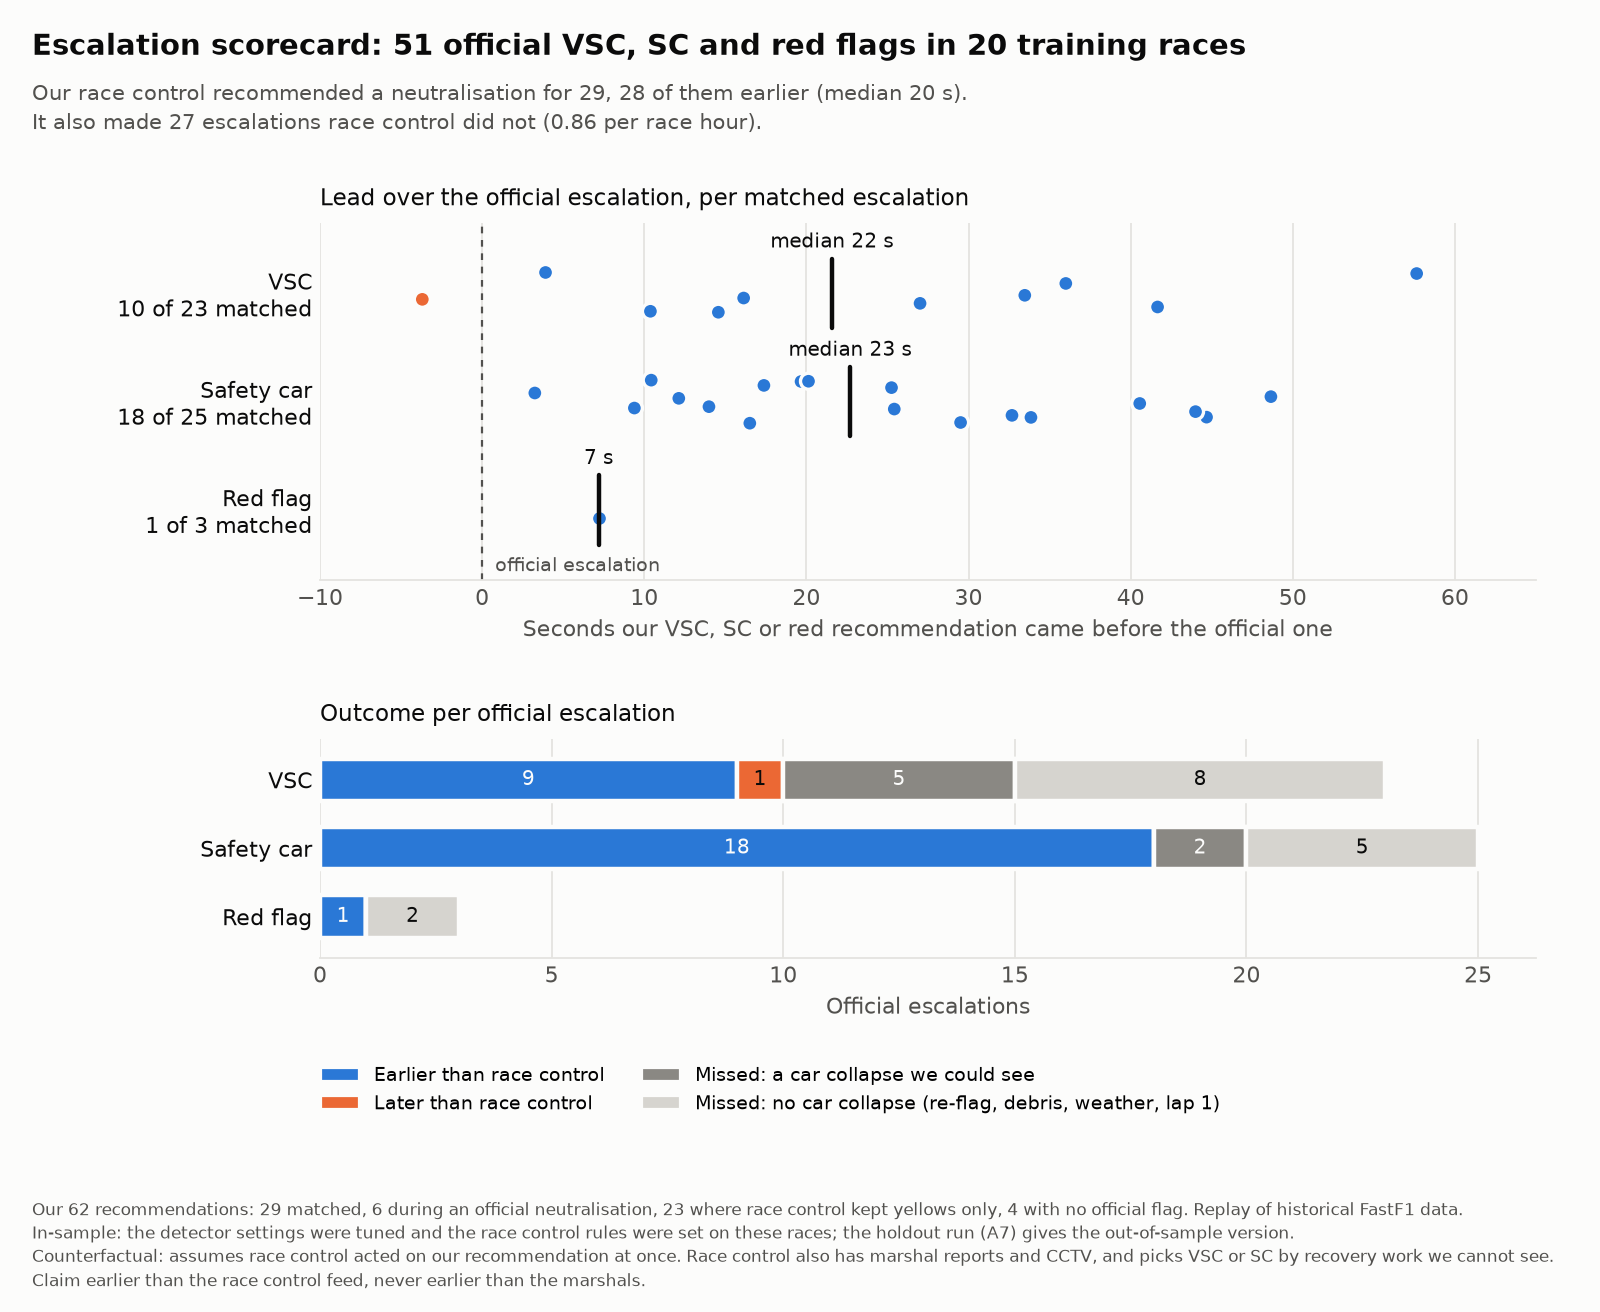
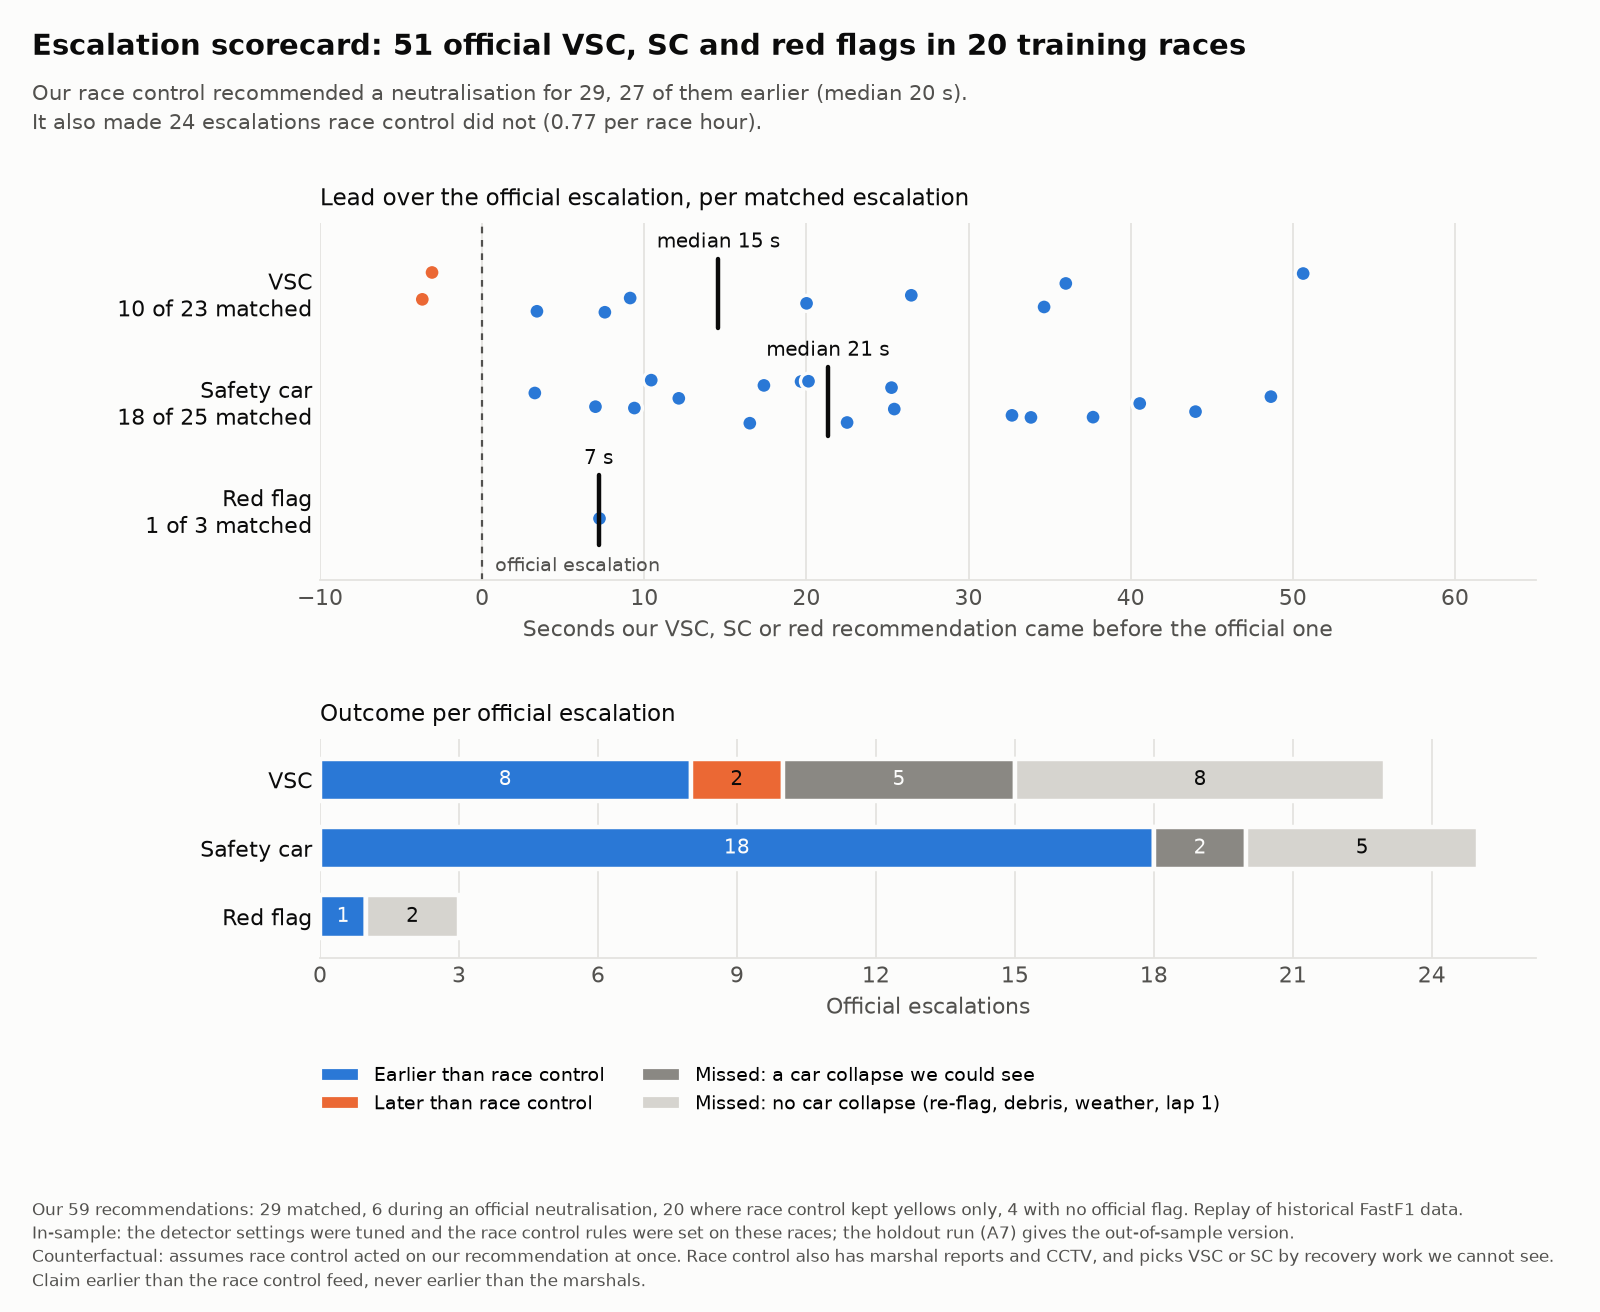
A: escalation scorecard rerun with the impact rule engine (f5a6b36)
Same first flag as race control 22 of 29 (was 17), official VSCs answered
with a VSC 8 (was 0), extra escalations 24, 0.77 per race hour (was 27,
0.86). Earlier/later 27/2 (was 28/1), median lead 20.0 s. Case study
unchanged (both Baku crashes had an IMPACT).

diff --git a/docs/charts/escalation.md b/docs/charts/escalation.md
@@ -8,14 +8,14 @@ Counterfactual: assumes race control acted on our recommendation at once. Race c
 
 ## Official escalations: 51
 
-- We recommended a VSC, SC or red for 29 of 51 (57%): 28 earlier than race control, 1 later. Median lead 20.1 s (middle half 12.1 to 33.9 s).
+- We recommended a VSC, SC or red for 29 of 51 (57%): 27 earlier than race control, 2 later. Median lead 20.0 s (middle half 9.1 to 33.9 s).
 - Already out (our flag was up before, no new recommendation): 0. Missed: 22, of which 7 had a car collapse our onset rule found and 15 had none.
-- Same first flag as race control: 17 of 29 (official Red flag and ours Red flag: 1; official Safety car and ours Red flag: 2; official Safety car and ours Safety car: 16; official VSC and ours Safety car: 10).
+- Same first flag as race control: 22 of 29 (official Red flag and ours Red flag: 1; official Safety car and ours Red flag: 2; official Safety car and ours Safety car: 13; official Safety car and ours VSC: 3; official VSC and ours Safety car: 2; official VSC and ours VSC: 8).
 
 | official flag | escalations | earlier | later | missed | median lead (s) |
 |---|---|---|---|---|---|
-| VSC | 23 | 9 | 1 | 13 | 21.6 |
-| Safety car | 25 | 18 | 0 | 7 | 22.7 |
+| VSC | 23 | 8 | 2 | 13 | 14.6 |
+| Safety car | 25 | 18 | 0 | 7 | 21.3 |
 | Red flag | 3 | 1 | 0 | 2 | 7.2 |
 
 Missed official escalations:
@@ -45,17 +45,18 @@ Missed official escalations:
 | 2026_Dutch | 10659.2 | VSC | track-wide | car collapse seen | car 23 collapsed 99 s before the first official message; we made no recommendation |
 | 2026_Italian | 3613.8 | SC | 14 15 16 | no car collapse | no car collapsed below 50% (debris, weather, or a car that went off and kept going) |
 
-## Our escalations: 62
+## Our escalations: 59
 
 - Matched an official escalation: 29. During an official neutralisation (not extra): 6.
-- Extra, race control never escalated: 27, 0.86 per race hour (23 where race control kept yellows only, 0 near an escalated incident but outside its match window, 4 with no official flag). By flag: VSC 0, Safety car 23, Red flag 4.
+- Extra, race control never escalated: 24, 0.77 per race hour (20 where race control kept yellows only, 0 near an escalated incident but outside its match window, 4 with no official flag). By flag: VSC 6, Safety car 14, Red flag 4.
 - Race control engine resets (tick jumps over 2 s): 0.
 
-## Finding: our engine never recommends a VSC
+## Flag choice: VSC or SC
 
-The engine sends a VSC for a car stopped more than 8 m from the racing line and an SC otherwise. FastF1 positions of stopped cars sit on the line, even for retired cars parked in run-off: of 616,792 stopped-car rows (below 5 km/h, outside the pit lane), 99.97% are within 1 m of it and 118 are beyond 8 m (short episodes: 2026_Italian car 16, 2026_Miami car 6). So every sustained stop becomes an SC, and all 10 matched official VSCs got an SC from us.
-
-Candidate rule (not in the engine): SC when our IMPACT or MULTI detection involved the car, VSC when it stopped without one. On the 26 official escalations with an onset car, 9 of 13 SC or red had an impact and 11 of 13 VSC had none: it picks race control's flag 20 times against 13 now. Same in-sample caveat, and a small sample.
+- Our first flag matched race control's in 22 of 29 matched escalations (official Red flag and ours Red flag: 1; official Safety car and ours Red flag: 2; official Safety car and ours Safety car: 13; official Safety car and ours VSC: 3; official VSC and ours Safety car: 2; official VSC and ours VSC: 8).
+- Our 59 recommendations by flag: VSC 17, Safety car 34, Red flag 8.
+- The lateral offset cannot choose between them. FastF1 positions of stopped cars sit on the racing line, even for retired cars parked in run-off: of 616,792 stopped-car rows (below 5 km/h, outside the pit lane), 99.97% are within 1 m of it and 118 are more than 8 m away (short episodes: 2026_Italian car 16, 2026_Miami car 6).
+- An impact separates them better. On the 26 official escalations with an onset car, 9 of 13 SC or red followed an IMPACT or MULTI detection involving the car and 11 of 13 VSC did not: "SC after an impact, VSC otherwise" picks race control's flag 20 times, "always SC" 13 times. In-sample, and a small sample.
 
 ## Per race
 
@@ -63,23 +64,23 @@ Candidate rule (not in the engine): SC when our IMPACT or MULTI detection involv
 |---|---|---|---|---|---|---|---|
 | 2023_Australian | 1.46 | 6 | 4 | 0 | 2 | 4 | 0 |
 | 2023_Mexico_City | 1.68 | 2 | 1 | 0 | 1 | 3 | 1 |
-| 2023_Monaco | 1.82 | 0 | 0 | 0 | 0 | 7 | 7 |
+| 2023_Monaco | 1.82 | 0 | 0 | 0 | 0 | 6 | 6 |
 | 2024_Canadian | 1.77 | 2 | 2 | 0 | 0 | 5 | 3 |
 | 2024_Mexico_City | 1.68 | 1 | 1 | 0 | 0 | 1 | 0 |
 | 2024_Qatar | 1.51 | 3 | 1 | 1 | 1 | 4 | 1 |
-| 2024_São_Paulo | 1.69 | 4 | 2 | 0 | 2 | 5 | 3 |
+| 2024_São_Paulo | 1.69 | 4 | 2 | 0 | 2 | 3 | 1 |
 | 2025_Australian | 1.68 | 3 | 3 | 0 | 0 | 6 | 2 |
 | 2025_Azerbaijan | 1.56 | 1 | 1 | 0 | 0 | 2 | 1 |
 | 2025_Belgian | 1.41 | 0 | 0 | 0 | 0 | 2 | 0 |
 | 2025_British | 1.62 | 4 | 2 | 0 | 2 | 4 | 2 |
 | 2025_Dutch | 1.64 | 4 | 1 | 0 | 3 | 1 | 0 |
-| 2025_Miami | 1.48 | 3 | 2 | 0 | 1 | 2 | 0 |
+| 2025_Miami | 1.48 | 3 | 1 | 1 | 1 | 2 | 0 |
 | 2026_Australian | 1.39 | 3 | 2 | 0 | 1 | 2 | 0 |
 | 2026_Belgian | 1.41 | 3 | 1 | 0 | 2 | 1 | 0 |
 | 2026_British | 1.46 | 4 | 2 | 0 | 2 | 3 | 1 |
-| 2026_Canadian | 1.47 | 3 | 0 | 0 | 3 | 2 | 2 |
+| 2026_Canadian | 1.47 | 3 | 0 | 0 | 3 | 1 | 1 |
 | 2026_Dutch | 1.61 | 2 | 1 | 0 | 1 | 3 | 2 |
 | 2026_Italian | 1.32 | 2 | 1 | 0 | 1 | 4 | 2 |
-| 2026_Miami | 1.56 | 1 | 1 | 0 | 0 | 1 | 0 |
+| 2026_Miami | 1.56 | 1 | 1 | 0 | 0 | 2 | 1 |
 
 Chart: escalation.png. Every official escalation: escalation_official.csv. Every recommendation of ours: escalation_ours.csv.
